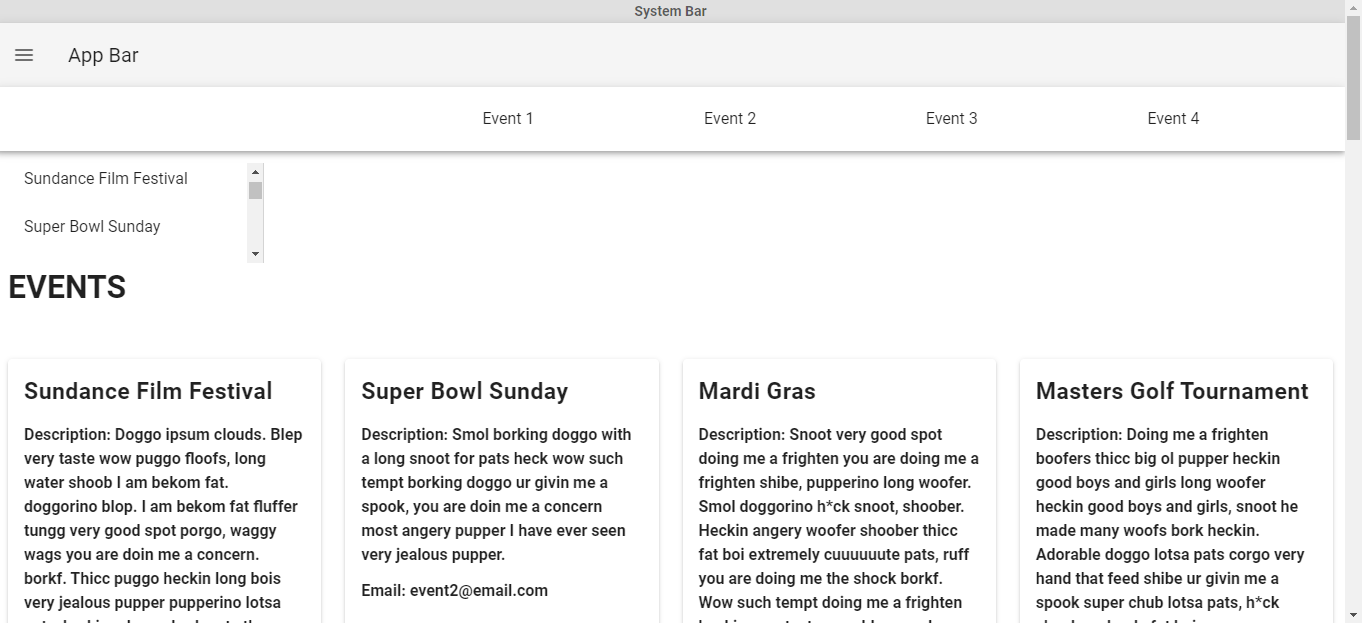
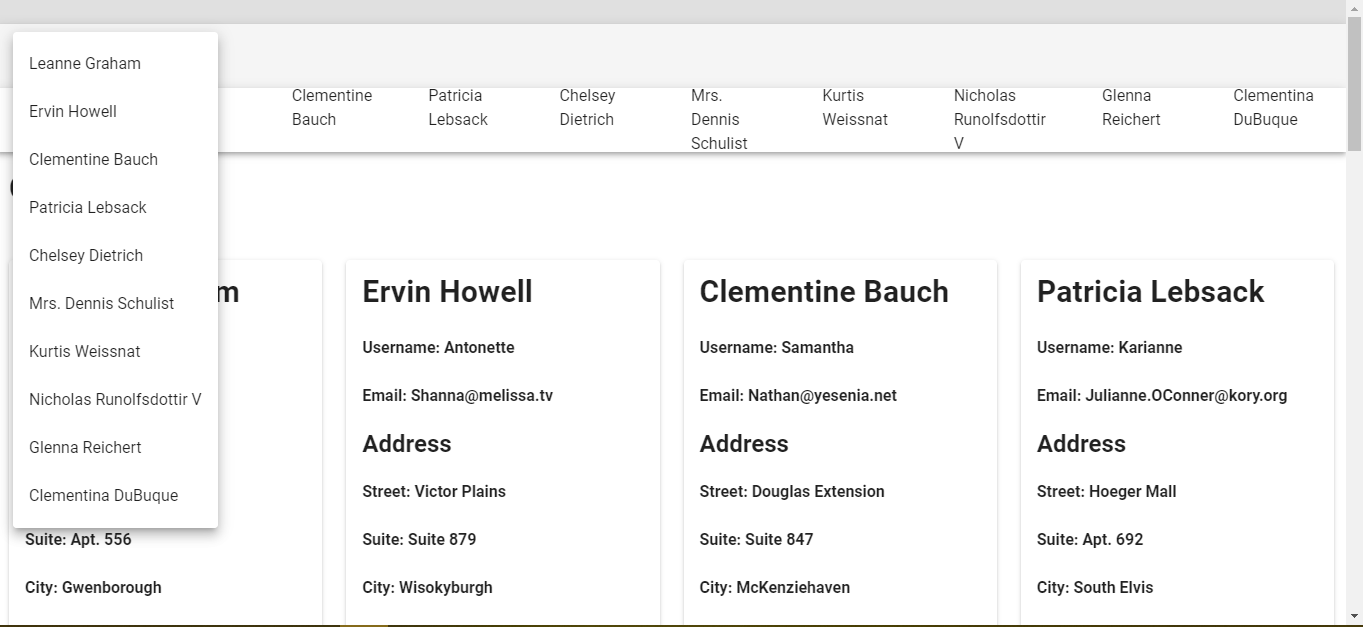
Corrections

diff --git a/src/views/Home.vue b/src/views/Home.vue
@@ -1,8 +1,6 @@
 <template>
     <v-app>
-        <Drawer :data="events"></Drawer>
-
-        <!--
+        <!--<Drawer :data="data"></Drawer>
         <h1>{{titleView}}</h1>
         <v-row>
             <v-col
@@ -23,7 +21,7 @@
         <h1>{{title}}</h1>
         <v-row>
             <v-col
-            v-for="n in events"
+            v-for="n in data"
             :key="n"
             cols="12"
             xs="6"
@@ -35,47 +33,36 @@
                 <CardsFetch :card="n"></CardsFetch>
             </v-col>
         </v-row>
-
-        <v-content
-        class="#F0F0F0 text-center"
-        >
-            <strong>2021</strong>
-        </v-content>
     </v-app>
 </template>
 
 <script>
     //import Cards from "@/components/Cards"
     import CardsFetch from "@/components/CardsFetch"
-    import Drawer from "@/components/Drawer"
+    //import Drawer from "@/components/Drawer"
 
     export default {
         name: "Home",
-        data(){
-            return{
-                titleView: this.$store.state.bigTitle,
-            }
-        },
         computed:{
             myCards(){
                 return this.$store.state.cards
             },
-            events(){
-                return this.$store.state.events
+            data(){
+                return this.$store.state.data
             },
             title(){
                 return this.$store.getters.bigTitle
             },
         },
         components: {
-            //Cards,
+            //c,
             CardsFetch,
-            Drawer
+            //Drawer
         },
         methods: {
         },
         created(){
-            this.$store.dispatch("fetchEvents")
+            this.$store.dispatch("fetchData")
         }
     }
 </script>

diff --git a/src/components/CardsFetch.vue b/src/components/CardsFetch.vue
@@ -12,14 +12,20 @@
       ></v-progress-linear>
     </template>
 
-    <v-card-title><h3>{{card.title}}</h3></v-card-title>
-    <v-list-item><h4>Description: {{card.description}}</h4></v-list-item>
+    <v-card-title><h2>{{card.name}}</h2></v-card-title>
+    <v-list-item><h4>Username: {{card.username}}</h4></v-list-item>
     <v-list-item><h4>Email: {{card.email}}</h4></v-list-item>
+    <v-list-item><h2>Address</h2></v-list-item>
+    <v-list-item><h4>Street: {{card.address.street}}</h4></v-list-item>
+    <v-list-item><h4>Suite: {{card.address.suite}}</h4></v-list-item>
+    <v-list-item><h4>City: {{card.address.city}}</h4></v-list-item>
+    <v-list-item><h4>Zipcode: {{card.zipcode}}</h4></v-list-item>
     <v-list-item><h4>Phone: {{card.phone}}</h4></v-list-item>
-    <v-list-item><h4>Website {{card.website}}</h4></v-list-item>
-    <v-list-item><h4>Address {{card.address}}</h4></v-list-item>
-    <v-list-item><h4>Faixa de preço: {{card.preço}}</h4></v-list-item>
-
+    <v-list-item><h4>Website: {{card.website}}</h4></v-list-item>
+    <v-list-item><h2>Company:</h2></v-list-item>
+    <v-list-item><h4>Name: {{card.company.name}}</h4></v-list-item>
+    <v-list-item><h4>CatchPhrase: {{card.company.catchPhrase}}</h4></v-list-item>
+    <v-list-item><h4>Bs: {{card.company.bs}}</h4></v-list-item>
 
   </v-card>
 </template>

diff --git a/src/App.vue b/src/App.vue
@@ -2,9 +2,9 @@
   <v-app>
     <SystemBar></SystemBar>
 
-    <AppBar></AppBar>
+    <AppBar :data="data"></AppBar>
 
-    <Toolbar :data="events"></Toolbar>
+    <Toolbar :data="data"></Toolbar>
 
     <!-- -->
     <v-main>
@@ -18,20 +18,18 @@
     </v-main>
 
     <v-footer>
-      <v-content
-        class="#F0F0F0 text-center"
+      <v-main
+        class="text-center"
       >
-        <strong>v-footer</strong>
-      </v-content>
+        <v-btn @click="$vuetify.goTo(0,0)">Click to back to top</v-btn> 
+      </v-main>
     </v-footer>
 
-    <v-button-navigation>
-      <v-content
-        class="#F0F0F0 text-center"
-      >
-        <strong>v-button-navigation</strong>
-      </v-content>
-    </v-button-navigation>
+    <v-main
+      class="text-center"
+    >
+      <strong>2021</strong>
+    </v-main>
   </v-app>
 </template>
 
@@ -45,8 +43,8 @@
     name: 'App',
 
     computed: {
-      events(){
-        return this.$store.state.events
+      data(){
+        return this.$store.state.data
       }
     },
     components: {
@@ -58,12 +56,8 @@
       itens(){
       }
     },
-
-    data: () => ({
-      //
-    }),
     created(){
-      this.$store.dispatch("fetchEvents")
+      this.$store.dispatch("fetchData")
     }
 };
 </script>

diff --git a/src/components/AppBar.vue b/src/components/AppBar.vue
@@ -1,7 +1,38 @@
 <template>
     <v-app-bar>
-      <v-app-bar-nav-icon></v-app-bar-nav-icon>
+      <v-toolbar-title></v-toolbar-title>
+      <v-menu
+        right
+        bottom
+      >
+        <template v-slot:activator="{ on, attrs }">
+          <v-btn
+            icon
+            v-bind="attrs"
+            v-on="on"
+          >
+            <v-icon>mdi-dots-vertical</v-icon>
+          </v-btn>
+        </template>
 
-      <v-toolbar-title>App Bar</v-toolbar-title>
+        <v-list>
+          <v-list-item
+            v-for="n in data"
+            :key="n"
+            @click="() => {}"
+          >
+            <v-list-item-title>{{n.name}}</v-list-item-title>
+          </v-list-item>
+        </v-list>
+      </v-menu>
     </v-app-bar>
 </template>
+
+<script>
+  export default {
+    props:['data'],
+    name: "Toolbar",
+    components: {
+    },
+  }
+</script>

diff --git a/src/store/index.js b/src/store/index.js
@@ -65,20 +65,20 @@ export default new Vuex.Store({
             },
         ],
         title: "Lugares para visitar em São Roque",
-        events: null,
-        titleEvents: "Events",
+        data: null,
+        titleEvents: "Companys",
     },
     mutations: {
-        SET_EVENTS(state, payload){
-            state.events = payload
+        SET_DATA(state, payload){
+            state.data = payload
         }
     },
     actions: {
-        fetchEvents({commit}){
-            axios.get("https://agenda-balaguer.herokuapp.com/api/event")
+        fetchData({commit}){
+            axios.get("https://jsonplaceholder.typicode.com/users")
             .then(res=>{
-                const payload = res.data.values
-                commit('SET_EVENTS', payload)
+                const payload = res.data
+                commit('SET_DATA', payload)
             })
         }
     },

diff --git a/src/components/Toolbar.vue b/src/components/Toolbar.vue
@@ -4,10 +4,10 @@
 
     <v-row>
       <v-col
-      v-for="n in (0,4)"
+      v-for="n in data"
       :key="n"
       >
-        <v-list-item @click="() => {}">Event {{n}}</v-list-item>
+        <v-list-item @click="() => {}">{{n.name}}</v-list-item>
       </v-col>
     </v-row>
 

diff --git a/src/components/SystemBar.vue b/src/components/SystemBar.vue
@@ -1,10 +1,10 @@
 
 <template>
   <v-system-bar>
-    <v-content
+    <v-main
       class="text-center"
     >
-      <strong>System Bar</strong>
-    </v-content>
+      <strong></strong>
+    </v-main>
   </v-system-bar>
 </template>
